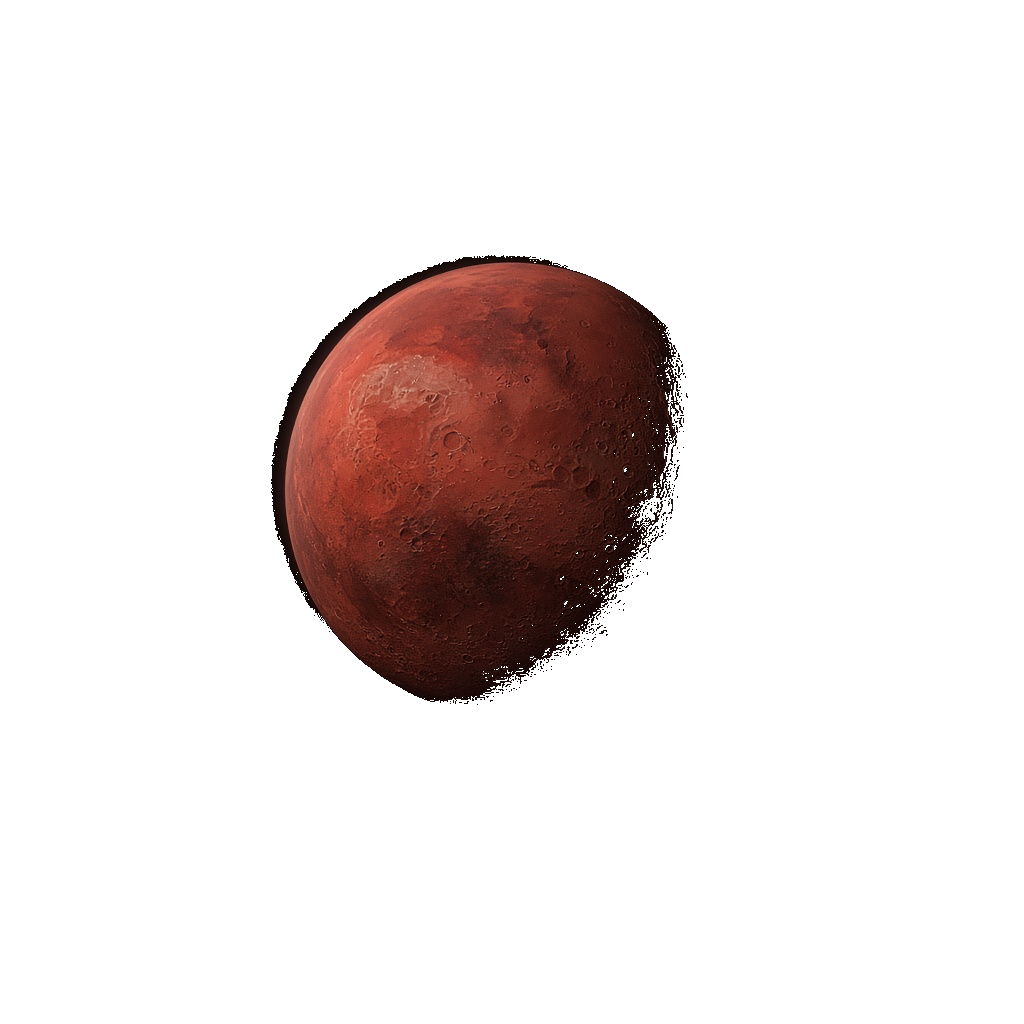
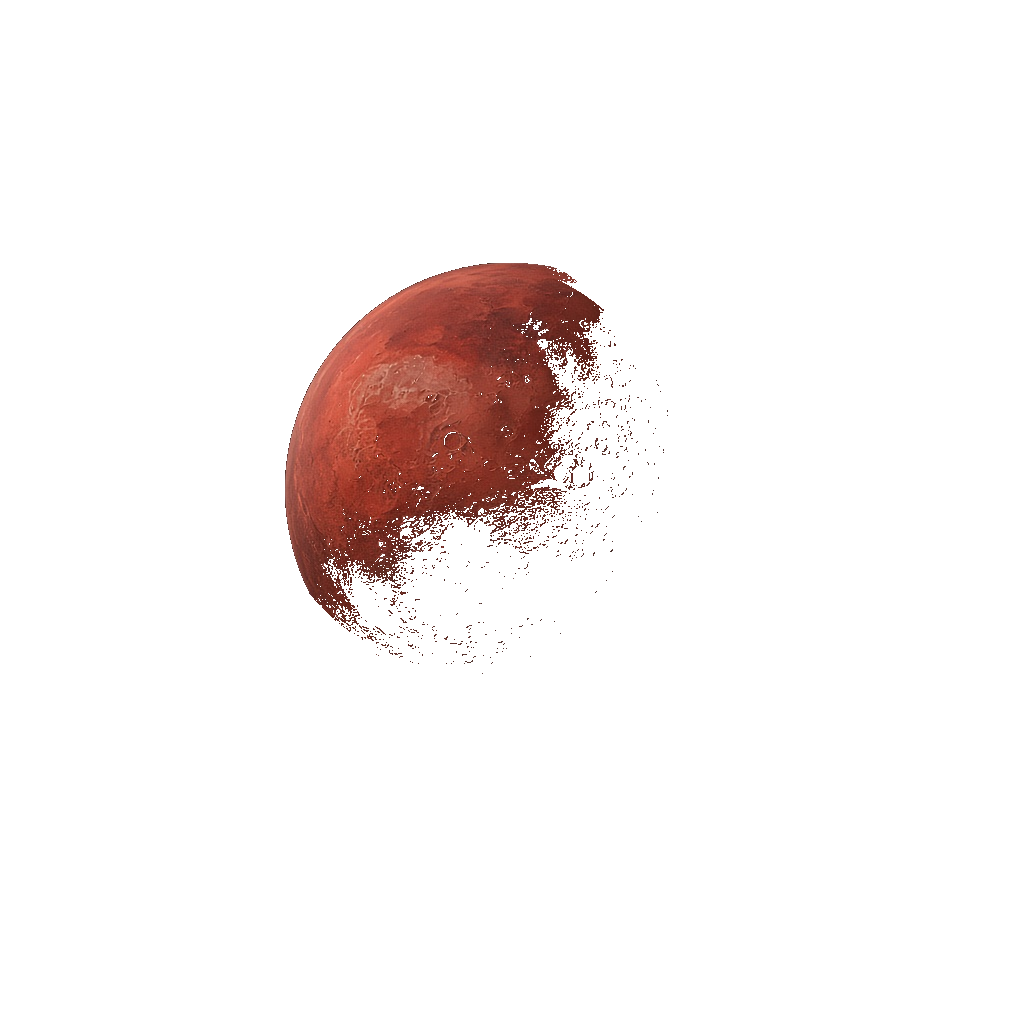
fix: 목성 등 행성 스프라이트 검은 림 제거
가스/ice/red/dwarf PNG 외곽 암부 림을 잘라내고, 행성 billboard
alphaTest를 높여 태양 앞 검은 테두리를 없앤다.

Changed region(s): [[0.2812, 0.25, 0.6875, 0.6875], [0.25, 0.3438, 0.3125, 0.5312], [0.3125, 0.3125, 0.3438, 0.3438]]

diff --git a/src/components/cosmic/LoungeObjects.tsx b/src/components/cosmic/LoungeObjects.tsx
@@ -142,7 +142,8 @@ function SolarPlanetSprite({
         scaleY={ringed ? 0.52 : 1}
         roll={ringed ? RING_UPRIGHT_ROLL : 0}
         color={planet.color}
-        alphaTest={0.12}
+        // Hard cut — discard soft/dark PNG limb fringe against the sun
+        alphaTest={0.45}
         depthWrite
       />
     </group>
